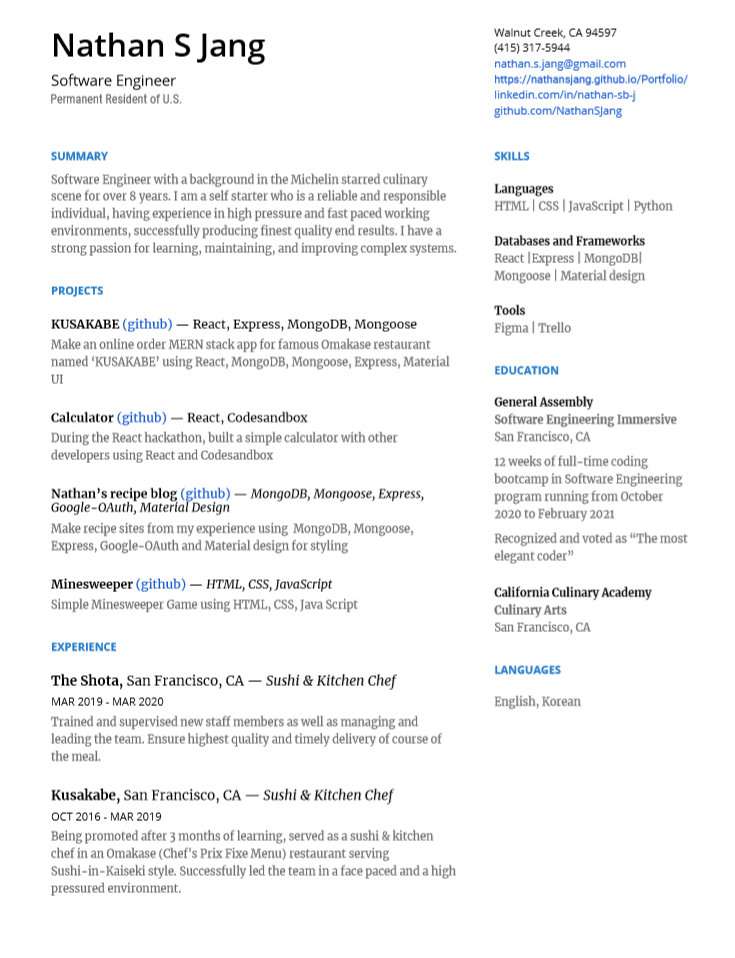
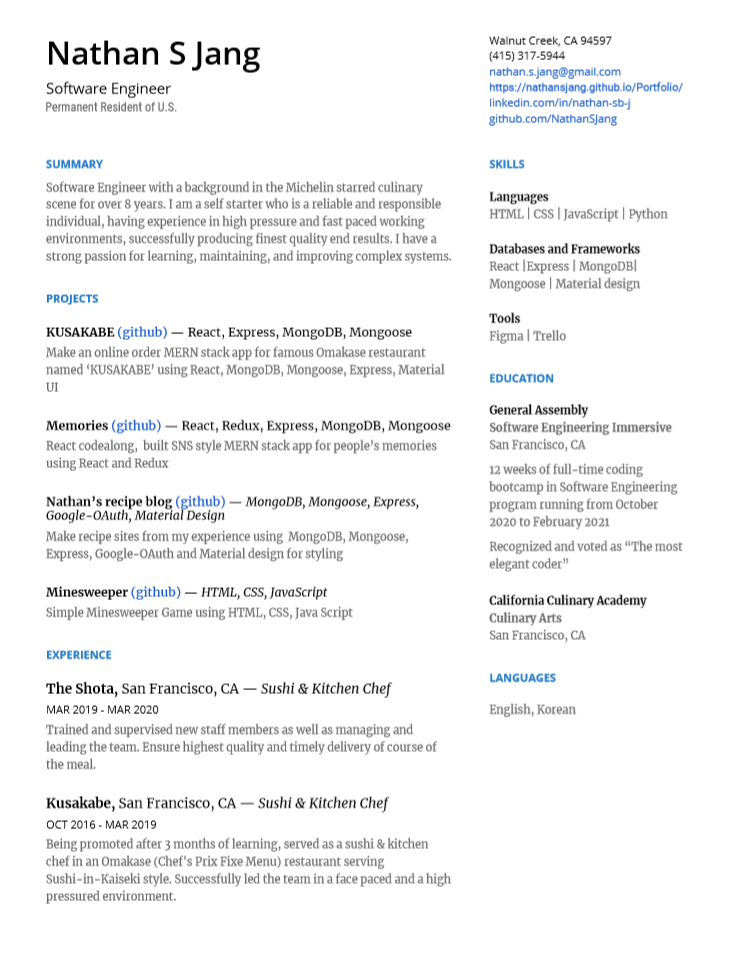
fix resume

diff --git a/src/components/Project5/Project5.jsx b/src/components/Project5/Project5.jsx
@@ -25,7 +25,7 @@ export default function Projects3() {
           <Paper className={classes.papper}>
             <Typography className={classes.text} variant='body1'>
               React Codealong<br />
-              Build SNS sytle MERN stack app using Google oAuth and token base user centric CURD
+              Build SNS sytle MERN stack app for people's memories using Google OAuth and token base user centric CURD
             </Typography>
           </Paper>
           <Paper className={classes.papper}>
@@ -38,7 +38,7 @@ export default function Projects3() {
               <br />
               <span className={classes.languagetext}>Node Js</span> - Non blocking network process
               <br />
-              <span className={classes.languagetext}>MongoDB</span> - Embedding itmes data for order
+              <span className={classes.languagetext}>MongoDB</span> - data server
               <br />
               <span className={classes.languagetext}>Mongoose</span> - Manage object mapping between Node Js and MongoDB
             </Typography>

diff --git a/src/components/Project4/Project4.jsx b/src/components/Project4/Project4.jsx
@@ -43,7 +43,7 @@ export default function Projects3() {
               <br />
               <span className={classes.languagetext}>Node Js</span> - Non blocking network process
               <br />
-              <span className={classes.languagetext}>MongoDB</span> - Data server
+              <span className={classes.languagetext}>MongoDB</span> - Embedding itmes data for order
               <br />
               <span className={classes.languagetext}>Mongoose</span> - Manage object mapping between Node Js and MongoDB
             </Typography>
